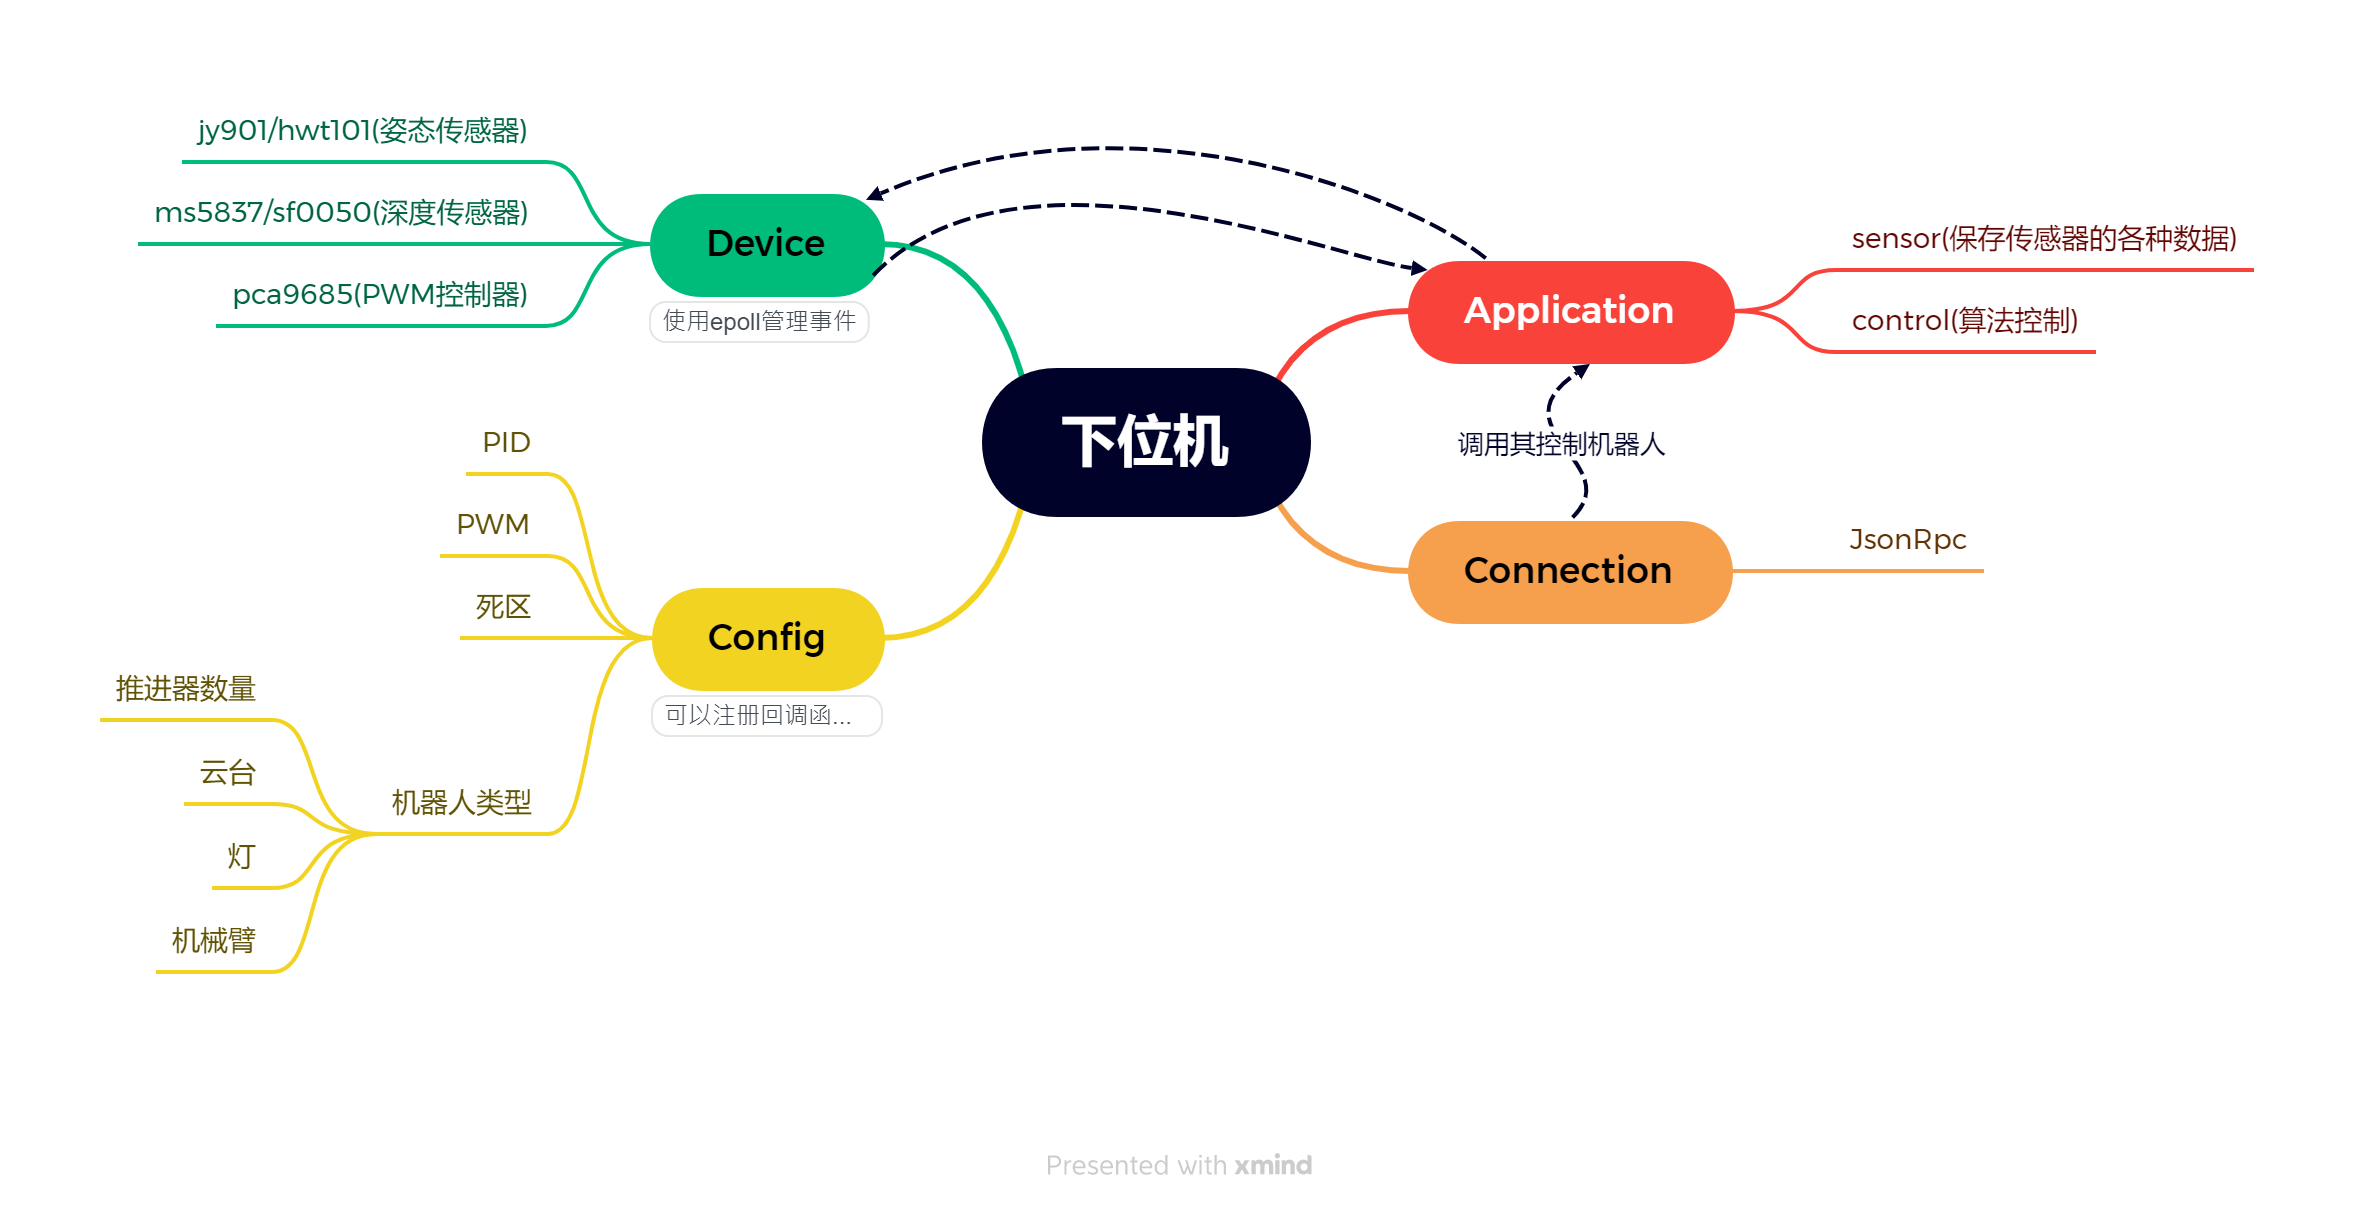
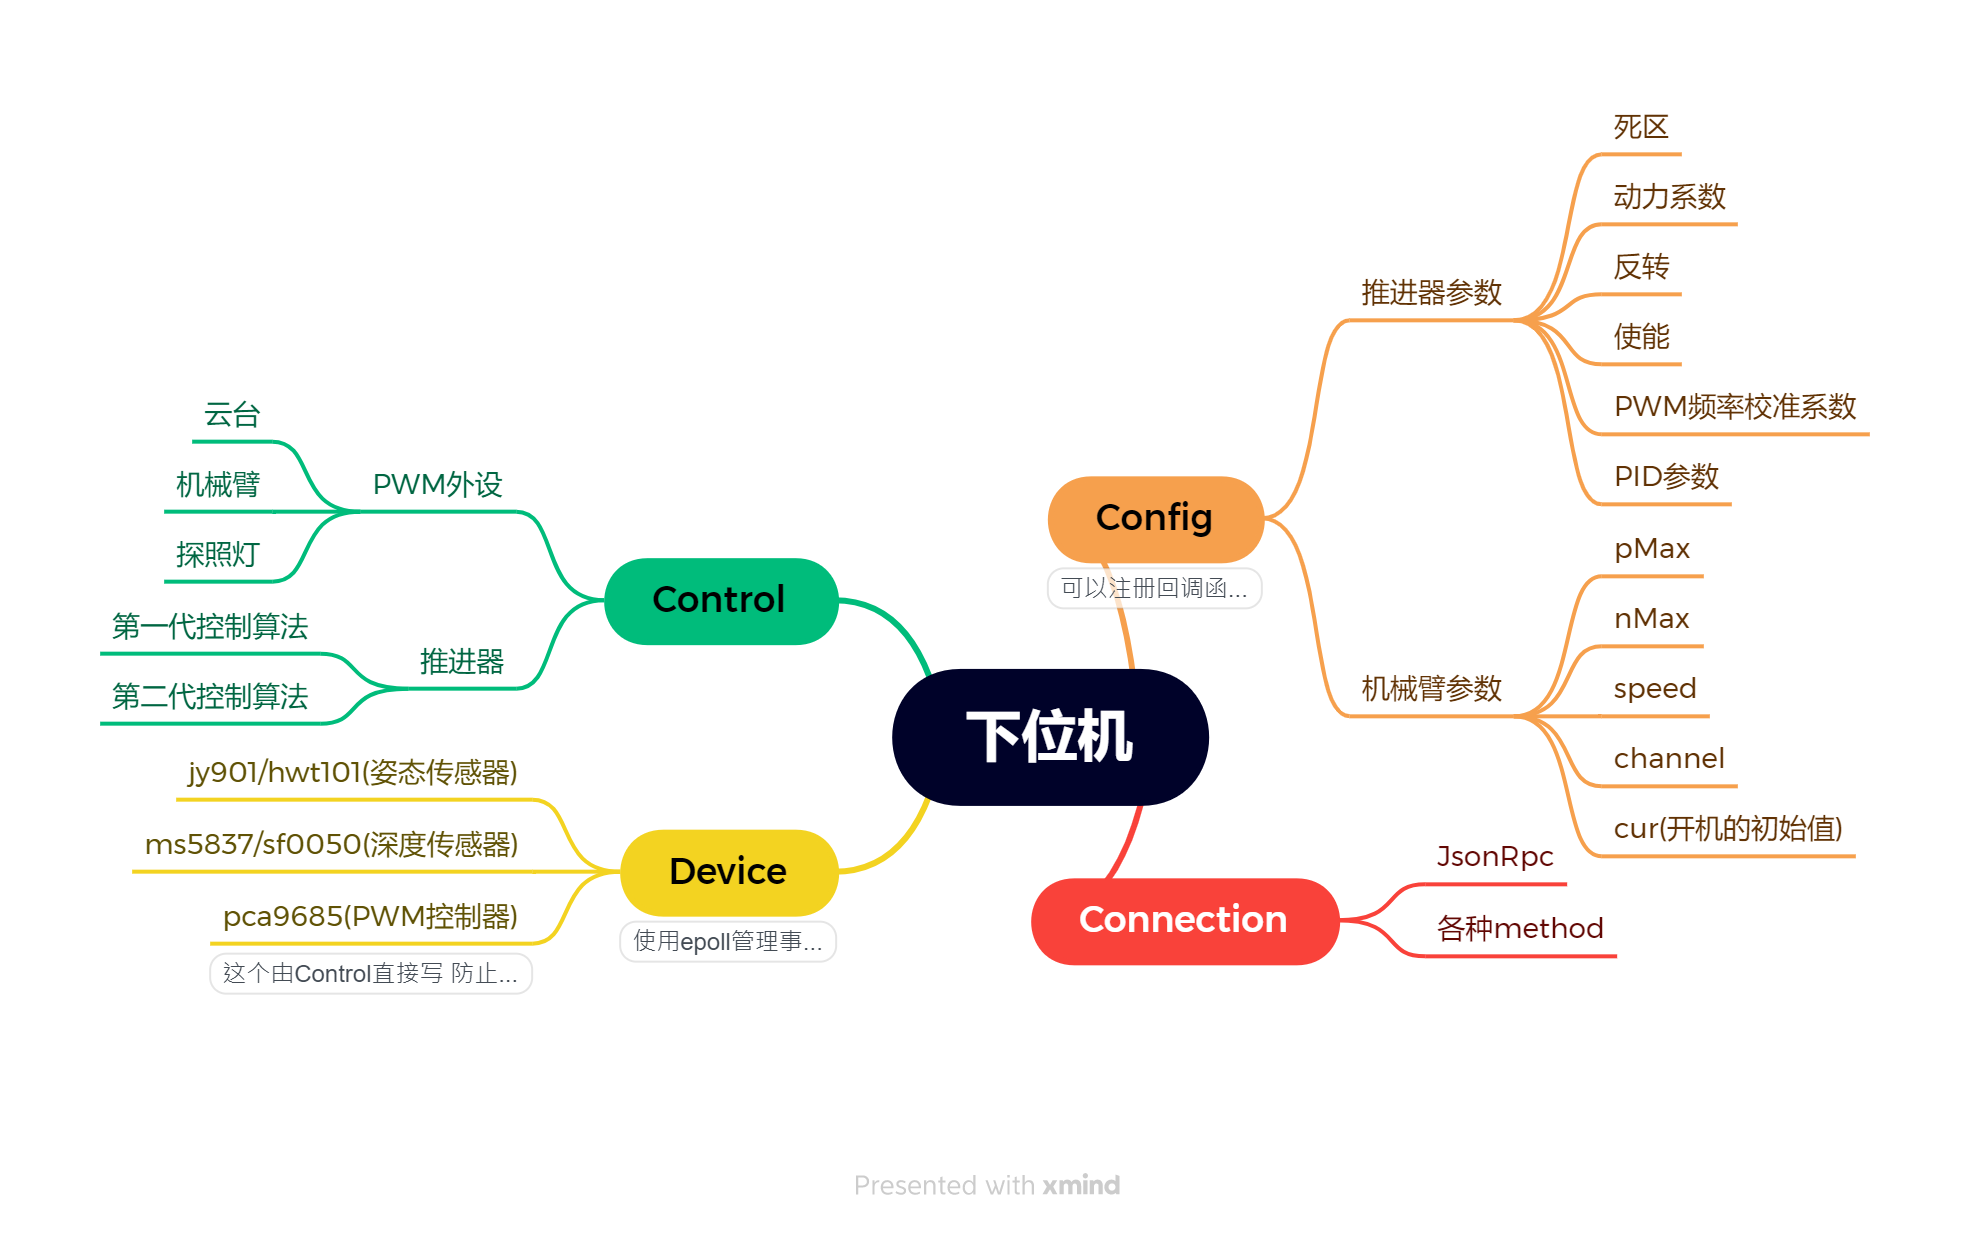
更新 markdown文档

diff --git a/README.md b/README.md
@@ -1,81 +1,186 @@
-# rov-master-v2
+<div align="center">
+  <a href="https://github.com/JMU-Underwater/rov-master-v2"><img src="https://zengwangfa.oss-cn-shanghai.aliyuncs.com/rov/rovmaster(vector)1.png" alt=""></a>
+  <a href="https://github.com/JMU-Underwater/rov-master-v2"><h1>ROV-Master-V2</h2></a>
+</div>
 
-### 架构图
+
+
+<div align="center">
+  <a href="http://wiki.friendlyarm.com/wiki/index.php/NanoPi_NEO_Core/zh"><img src="https://img.shields.io/badge/Device-Nanopi NEO Core-brigreen.svg?style=flat-square" alt="Device"></a>
+</div>
+
+# 1.介绍
+
+- 本项目用到以下库
+  - [WiringNP](https://github.com/friendlyarm/WiringNP) This is a GPIO access library for NanoPi. It is based on the WiringOP for Orange PI which is based on original WiringPi for Raspberry Pi.
+  - 。。。
+
+# 2.使用
+
+- 运行环境： NanoPi NEO
+
+  ```shell
+  $ git clone https://github.com/JMU-Underwater/rov-master-v2.git
+  or 
+  $ git clone git@github.com:JMU-Underwater-Robot-Laboratory/rov-master-v2.git
+  $ cd rov-master
+  $ chmod +x build.sh
+  $ ./build.sh
+  $ make
+  ```
+
+- 若执行时提示无法打开某设备，输入 `sudo npi-config` > `Advanced Options` 中使能相关设备：
+
+  ```shell
+  $ sudo npi-config
+  ```
+
+  若系统时间不对，为时区未进行更改：
+  在 `npi-config` > `Localisation Options` > `Change Timezone` 中选择修改。
+
+# 3.协议
+
+## 3.1 设备状态信息(仅发送)
+
+数据说明：
+
+| 字段           | 类型   | 描述               |
+| -------------- | ------ | ------------------ |
+| 温度           | float  | 当前cpu温度        |
+| 航向角         | float  | 当前航向角         |
+| depth_lock     | double | 当前与期望深度差值 |
+| direction_lost | float  | 当前航向角/360     |
+
+实时发送上位机所需的机器人状态信息：
+
+```json
+{
+	"info":{  
+		"温度"  :"28℃", //当前温度
+		"航向角":"0°"    //当前航向角
+	},
+	"feedbacks":{
+		"control_loops":{
+			"depth_lock"    :-1, //当前与期望深度差值
+			"direction_lost":1   //当前当前航向角/360
+		},
+	}
+}
+```
+
+## 3.2 上位机信息(接收并发送)
+
+数据说明：
+
+| 字段                               | 类型   | 描述               |
+| ---------------------------------- | ------ | ------------------ |
+| x                                  | double | 控制机器人左右平移 |
+| y                                  | double | 控制机器人前进后退 |
+| z                                  | double | 控制机器人上浮下沉 |
+| depth                              | float  | 期望深度           |
+| set_propeller_pwm_freq_calibration | float  | 设置pca9685频率    |
+| catch                              | double | 控制机械臂         |
+| direction_locked                   | bool   | 设置方向锁定       |
+| depth_locked                       | bool   | 设置深度锁定       |
+| set_debug_mode_enabled             | bool   | 调试模式标志       |
+| set_propeller_values               | short  | 设置推进器输出     |
+| set_propeller_parameters           | -      | 设置推进器参数     |
+| set_control_loop_parameters        | double | 设置控制环参数     |
+| save_parameters                    | -      | 保存参数标志       |
+| load_parameters                    | -      | 读取参数标志       |
+
+接收并解析上位机发送的数据，并在调试模式时发送推进器参数给上位机
+
+```json
+{
+	"x"    :0.0,  //左右平移
+	"y"    :0.0,  //前进后退
+	"z"    :0.0,  //上浮下沉
+	"rot"  :0.0,  //期望航向角速度-1.0~1.0
+	"depth":0.0,  //期望深度
+	"set_propeller_pwm_freq_calibration":0.0, //pca9685频率
+	"catch"           :0.0,     //机械臂
+	"direction_locked":0,       //方向锁定
+	"depth_locked"    :0,       //深度锁定
+	"set_debug_mode_enabled":0, //调试模式标志
+	"set_propeller_values":{    //推进器输出
+		"back_left"  :0,        //推进器名称
+		"center_left":0,   
+		"front_left" :0    
+		//...
+	},
+	"set_propeller_parameters":{  //推进器参数
+		"back_left":{             //推进器名称
+			"deadzone_upper":0,   //死区上限
+			"deadzone_lower":0,   //死区下限
+			"enabled"       :0,   //推进器使能
+			"reversed"      :0,   //反转标志
+			"power_negative":0.0, //正向动力百分比
+			"power_positive":0.0  //反向动力百分比
+		},
+		"center_left":{
+			//...
+		},
+		"front_left":{ 
+			//...
+		}
+		//...
+	},
+	"set_control_loop_parameters":{ //控制环参数
+		"depth_lock":{      //深度控制环
+			"p":0.0,        //比例调节
+			"i":0.0,        //积分调节
+			"d":0.0         //微分调节
+		},
+		"direction_lock":{  //航向角控制环
+			//...
+		},
+	},
+	"save_parameters":0, //保存数据标志
+	"load_parameters":0  //加载数据标志
+}
+```
+
+---
+#    4.进度
+- 驱动模块
+	- [ ] ADS1118 (ADC)
+		- [ ] 电压检测 (待实际测试)
+		- [ ] 电流检测 (待实际测试)
+	- [x] PCA9685 (PWM)
+	- [x] 深度传感器
+		- [x] MS5837
+	- [ ] 系统设备状态
+		- [ ] CPU使用率、温度
+		- [ ] 内存状态
+		- [ ] 硬盘状态
+		- [ ] 实时网速
+	- [ ] IO设备
+		- [ ] RGB
+		- [ ] 按键
+		- [ ] 蜂鸣器
+	- [ ] PWM设备 (待实际测试)
+		- [ ] 云台
+		- [ ] 探照灯
+		- [x] 机械臂
+	- [ ] OLED
+	- [x] 九轴(仅使用6轴功能)
+	- [ ] 音频MIC
+- 功能模块
+	- [ ] OLED状态显示
+	- [ ] 视频推流
+	- [x] 数据通信
+		- [x] 下行-控制数据
+		- [ ] 上行-ROV状态数据
+	- [ ] 系统自检
+	- [x] 日志记录
+	- [x] 传感器融合
+- 控制模块
+	- [x] 手柄控制 
+	- [x] 定深控制
+	- [x] 定向控制
+	- [ ] 变焦摄像头控制
+# 架构图
 
 ![](Pngs/mind.png)
 
-## 变量
-
-- 线程变量`t_`开头
-
-```c++
-static thread_local t_exampleVar;
-```
-
-## 函数
-
-- 变量大写开头
-
-```c++
- int GetPID();
-```
-
-- ***不抛异常**在后面加上 `noexcept`*
-
-## 类和结构体
-
-##### 设计思路
-
-- 使得后续的修改应尽可能小的修改类的代码
-
-  ![](Pngs/design_class_example1.png)
-
-##### 命名
-
-1. 开头大写 驼峰命名
-2. 类内成员变量 `m_` 开头
-3. 类内静态变量`s_`开头
-4. 类内方法小写开头 (**不抛异常**在后面加上 `noexcept`)
-5. 类内静态方法大写开头
-
-```c++
-class Example 
-{
-public:
-    int getMemberVar() const noexcept;
-    int GetStaticVar() const noexcept;
-private:
-    int m_memberVar;
-    static int s_staticVar;
-};
-```
-
-
-
-##### 实现
-
-- 统一放到`.cpp`文件中
-
-
-
-## 标准库容器的使用
-
-##### vector
-
-- 能知道大概分配多少先`resize` (避免扩充大小时的数据拷贝性能损失)
-
-##### list
-
-- 删除 添加操作多时使用
-
-## 下位机驱动类规范
-
-#####  三个基本成员函数
-
-```c++
-1. void reset();
-2. void inputDate(uint8 data)
-3. const jy901_t& getDate() const
-```
-
-> 后续添加了事件系统后 还应暴露出当这个驱动事件触发时要执行的函数

diff --git a/develop-to-do-list.md b/develop-to-do-list.md
@@ -1,0 +1,75 @@
+## 变量
+
+- 线程变量`t_`开头
+
+```c++
+static thread_local t_exampleVar;
+```
+
+## 函数
+
+- 变量大写开头
+
+```c++
+ int GetPID();
+```
+
+- ***不抛异常**在后面加上 `noexcept`*
+
+## 类和结构体
+
+##### 设计思路
+
+- 使得后续的修改应尽可能小的修改类的代码
+
+  ![](C:/Users/Qff/Desktop/rov-master-v2/Pngs/design_class_example1.png)
+
+##### 命名
+
+1. 开头大写 驼峰命名
+2. 类内成员变量 `m_` 开头
+3. 类内静态变量`s_`开头
+4. 类内方法小写开头 (**不抛异常**在后面加上 `noexcept`)
+5. 类内静态方法大写开头
+
+```c++
+class Example 
+{
+public:
+    int getMemberVar() const noexcept;
+    int GetStaticVar() const noexcept;
+private:
+    int m_memberVar;
+    static int s_staticVar;
+};
+```
+
+
+
+##### 实现
+
+- 统一放到`.cpp`文件中(模板因为编译问题 除外)
+
+
+
+## 标准库容器的使用
+
+##### vector
+
+- 能知道大概分配多少先`resize` (避免扩充大小时的数据拷贝性能损失)
+
+##### list
+
+- 删除 添加操作多时使用
+
+## 下位机驱动类规范
+
+#####  三个基本成员函数
+
+```c++
+1. void reset();
+2. void inputDate(uint8 data)
+3. const jy901_t& getDate() const
+```
+
+> 后续添加了事件系统后 还应暴露出当这个驱动事件触发时要执行的函数
